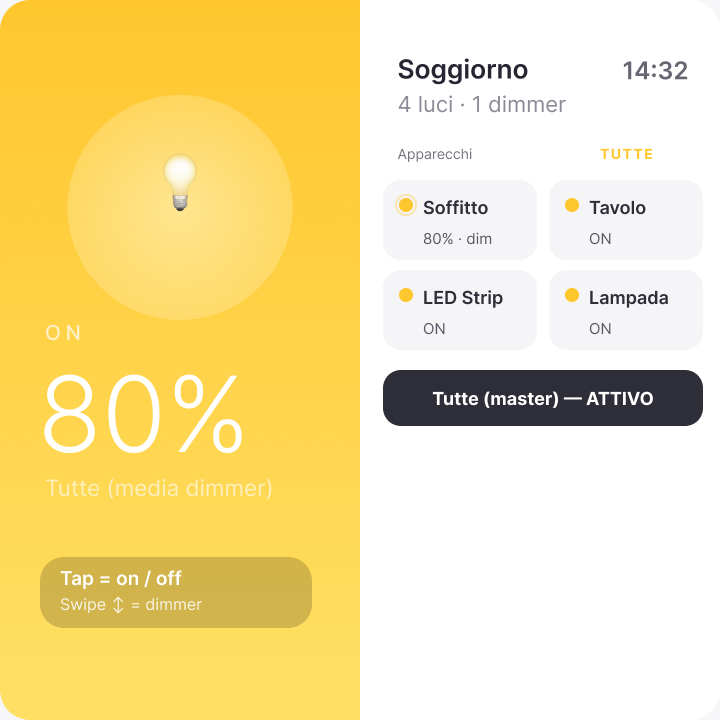
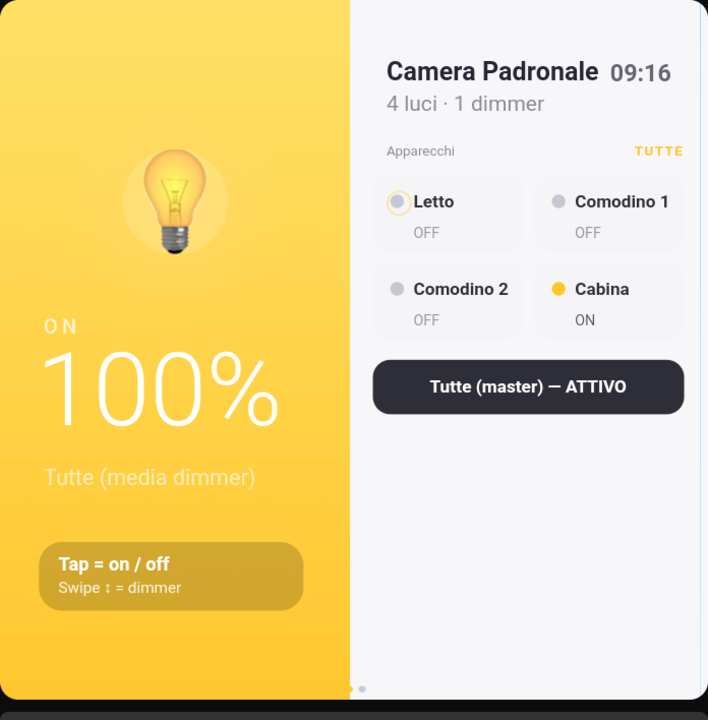
docs: README — replace Lights mockups with real Wall Display screenshots (v1.2.4)
The 4 Lights screenshots in docs/screenshots/ were Figma-rendered
mockups baked into the README at v1.2.0 release. They:
- still showed the old emoji-based bulb icon (since v1.2.2 the card
  ships incandescent SVG bulbs and Figma hasn't been resync'd yet)
- were ideal compositions, not what a user actually sees on the
  Shelly Wall Display SAWD1 they're about to install

Replaced the 3 most representative ones with 1:1 PNGs captured from
the actual 720x720 WallDisplay kiosks running v1.2.4:

- lights-bright.png         <- Camera Padronale (master scope, 4
                               lights, 1 dimmer, "Cabina" turned on
                               by the household — incandescent SVG
                               bulb glowing yellow in its halo)
- lights-master-off.png     <- Bagno Padronale (master scope, 2
                               non-dimmer lights, all off — replaces
                               the previous lights-non-dimmer-off.png
                               Figma mockup which is now removed)
- lights-single-light.png   <- Camera 1 (single light room, no tile
                               grid, no master button — the bulb
                               visual carries the whole panel)

The remaining 2 (lights-mid-drag.png + lights-many.png) stay as
Figma mockups: the first is an interaction-state snapshot that
isn't capturable via a static screenshot, the second needs a
6-light room which the household doesn't have.
[…]

diff --git a/README.md b/README.md
@@ -8,7 +8,9 @@
 [![Built for Shelly Wall Display](https://img.shields.io/badge/built%20for-Shelly%20Wall%20Display-blue.svg?style=flat-square)](https://www.shelly.com/products/shelly-wall-display)
 
 <p align="center">
-  <img src="docs/screenshots/lights-bright.png" alt="cow-thermostat-card — Lights master scope at 80%" width="540">
+  <img src="docs/screenshots/lights-bright.png" alt="cow-thermostat-card — Lights master scope, 4 lights with 1 dimmer, Cabina turned on" width="540">
+  <br>
+  <sub><em>Screenshot from a real Shelly Wall Display SAWD1 running v1.2.x</em></sub>
 </p>
 
 `cow-thermostat-card` replaces an entire Lovelace dashboard with **one card per room**: a horizontal swipe between three pixel-perfect views (thermostat · lights · blinds), each tracking the live state of your Home Assistant entities. Built specifically for the **Shelly Wall Display SAWD1** (4" 720×720) but scales to any square viewport.
@@ -39,20 +41,26 @@ Generic Lovelace tiles look out of place on a wall-mounted touch panel. This car
 
 <table>
   <tr>
-    <td><img src="docs/screenshots/lights-bright.png" alt="Master scope, bright" width="360"></td>
-    <td><img src="docs/screenshots/lights-mid-drag.png" alt="Mid-drag interaction" width="360"></td>
+    <td><img src="docs/screenshots/lights-bright.png" alt="Master scope, 4 lights with 1 dimmer, one light ON" width="360"></td>
+    <td><img src="docs/screenshots/lights-master-off.png" alt="Master scope, 2 non-dimmer lights, all off" width="360"></td>
   </tr>
   <tr>
-    <td align="center"><b>Master · 80%</b><br><sub>Average across dimmer bulbs only</sub></td>
-    <td align="center"><b>Mid-drag</b><br><sub>Live halo + fingertip indicator</sub></td>
+    <td align="center"><b>Master scope · mixed group</b><br><sub>Real Wall Display screenshot · ring around the dot marks the dimmer</sub></td>
+    <td align="center"><b>Master scope · all off (non-dimmer group)</b><br><sub>Big <code>OFF</code> instead of <code>0%</code>, swipe gesture muted</sub></td>
   </tr>
   <tr>
-    <td><img src="docs/screenshots/lights-non-dimmer-off.png" alt="Non-dimmer light selected, off" width="360"></td>
+    <td><img src="docs/screenshots/lights-single-light.png" alt="Single light only — no grid, no master" width="360"></td>
     <td><img src="docs/screenshots/lights-many.png" alt="Six lights in a 2x3 grid" width="360"></td>
   </tr>
   <tr>
-    <td align="center"><b>Non-dimmer · OFF</b><br><sub>Swipe disabled, big ON/OFF instead of %</sub></td>
+    <td align="center"><b>Single light room</b><br><sub>No tile grid, no master button — the bulb visual does everything</sub></td>
     <td align="center"><b>Six lights, 2×3 grid</b><br><sub>Scales without wrapping or scrolling</sub></td>
+  </tr>
+  <tr>
+    <td colspan="2"><img src="docs/screenshots/lights-mid-drag.png" alt="Mid-drag interaction" width="540"></td>
+  </tr>
+  <tr>
+    <td colspan="2" align="center"><b>Mid-drag</b> · live halo around the bulb + fingertip indicator + <code>↕</code> arrow following the finger</td>
   </tr>
 </table>
 
